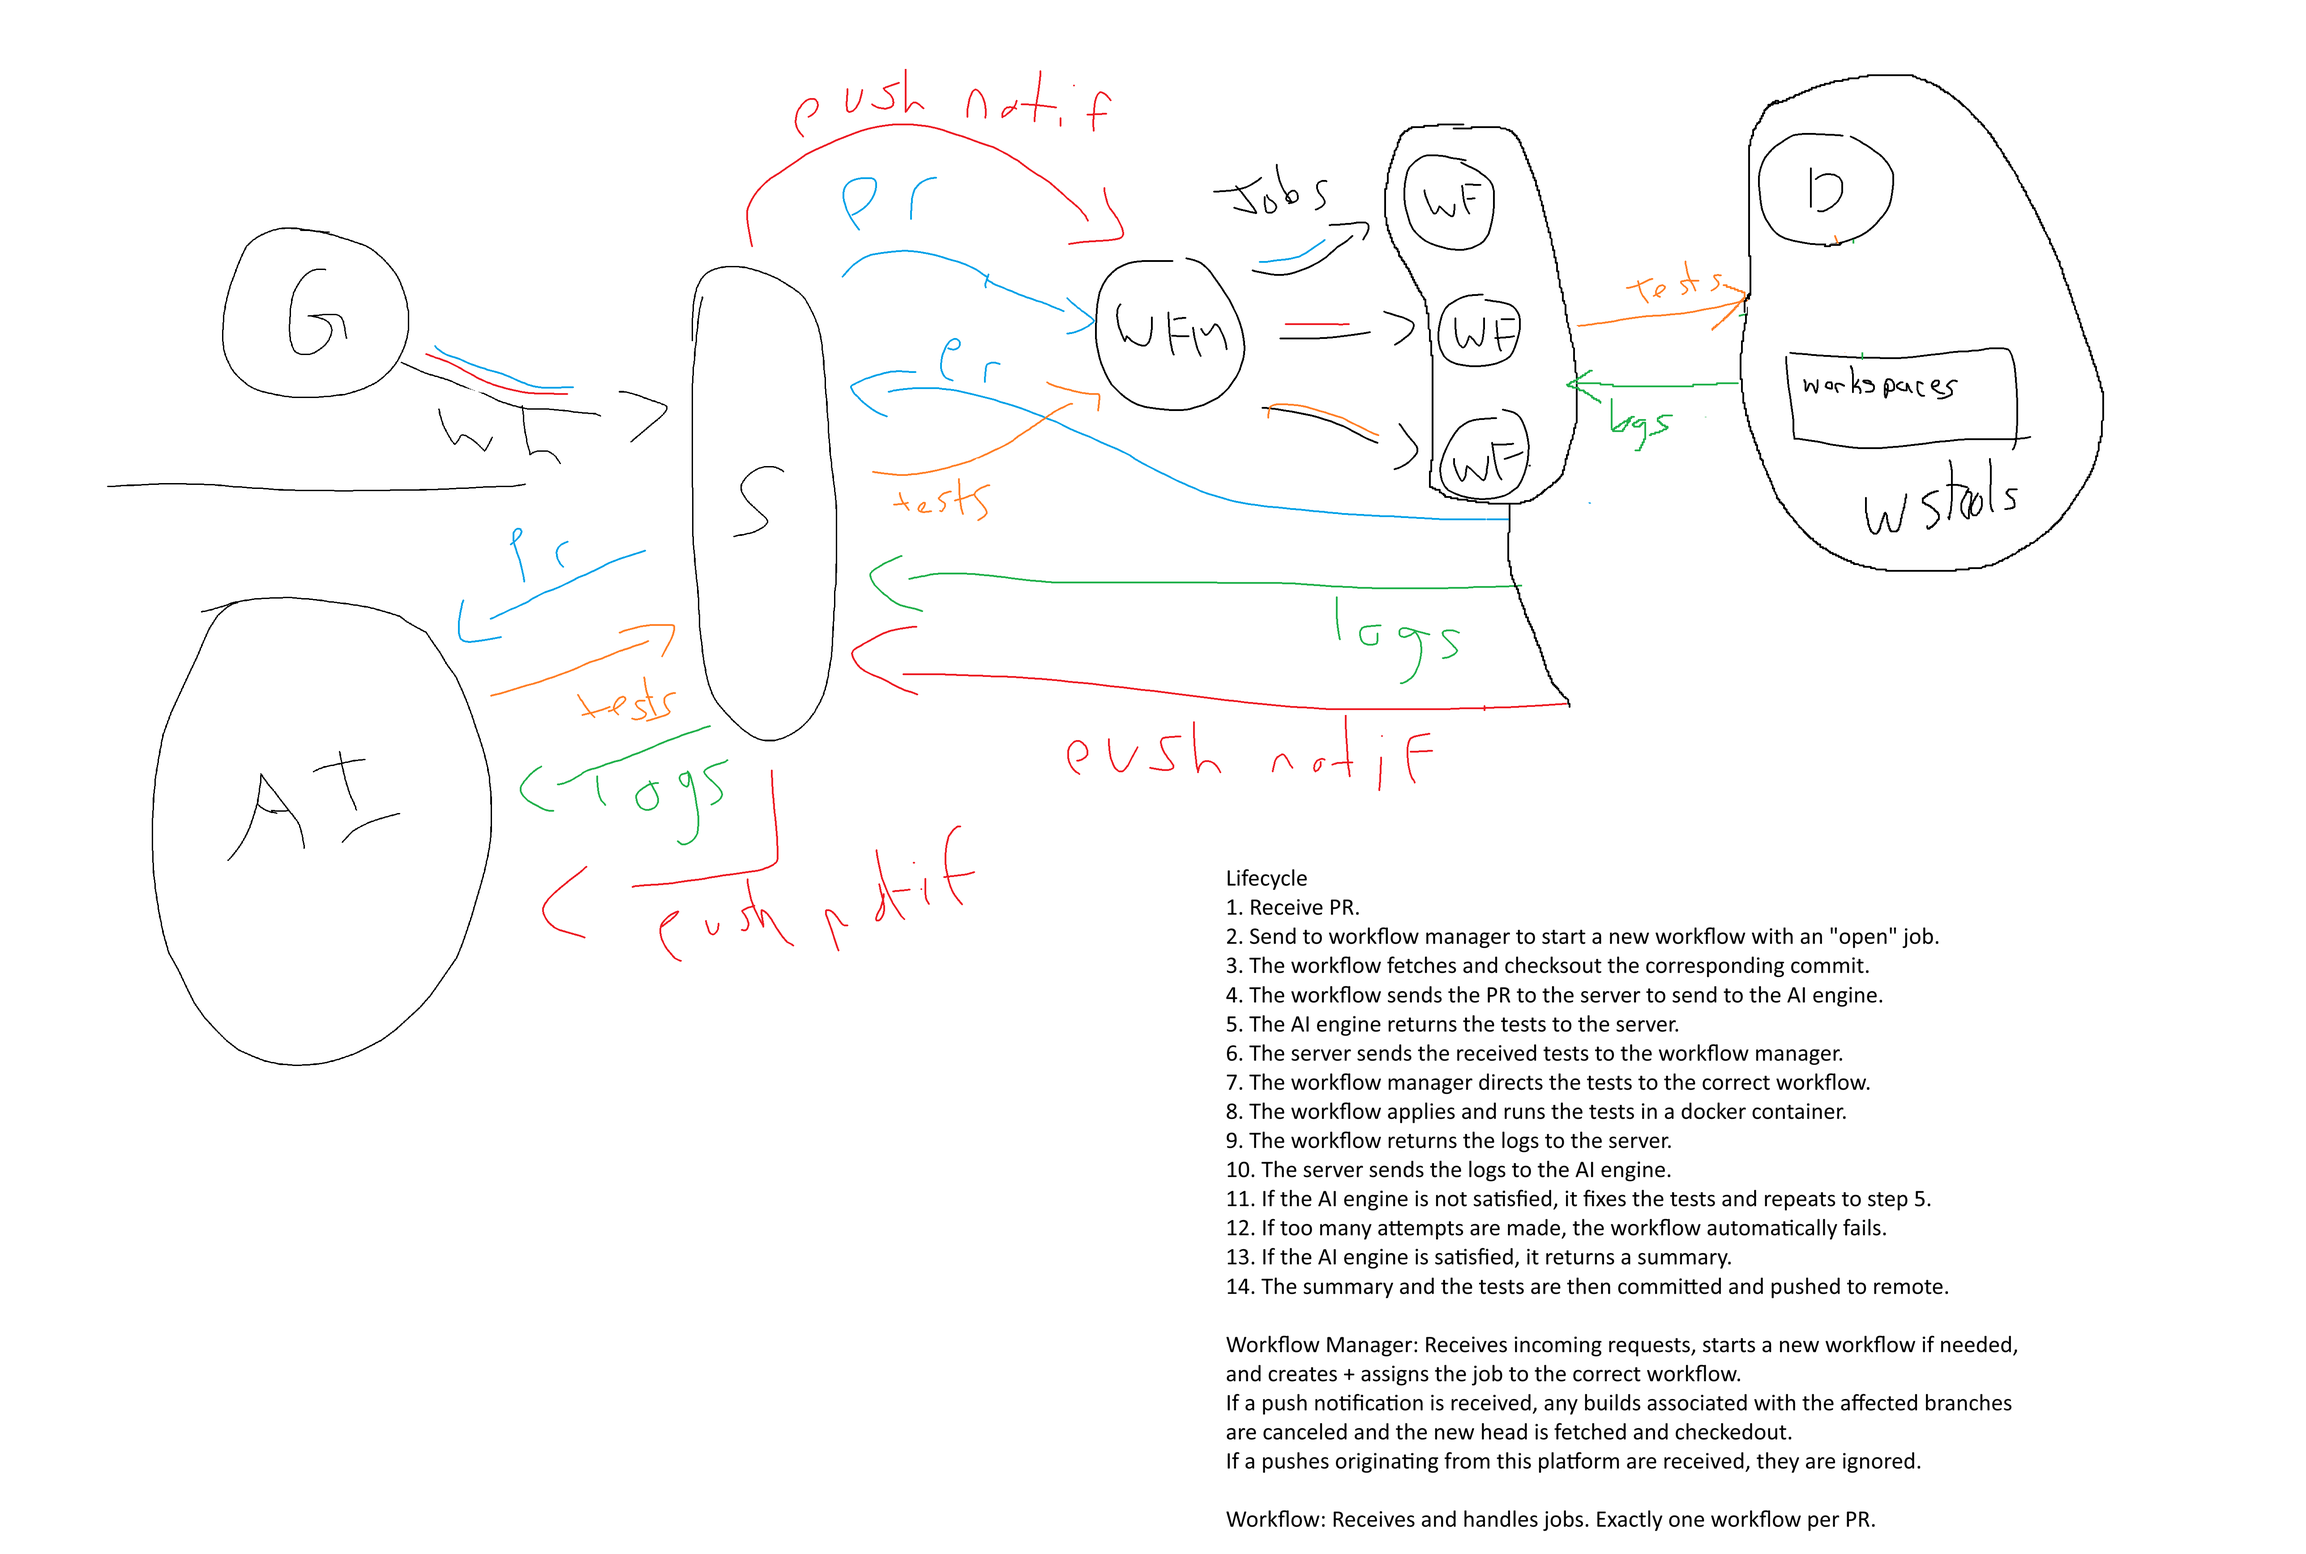
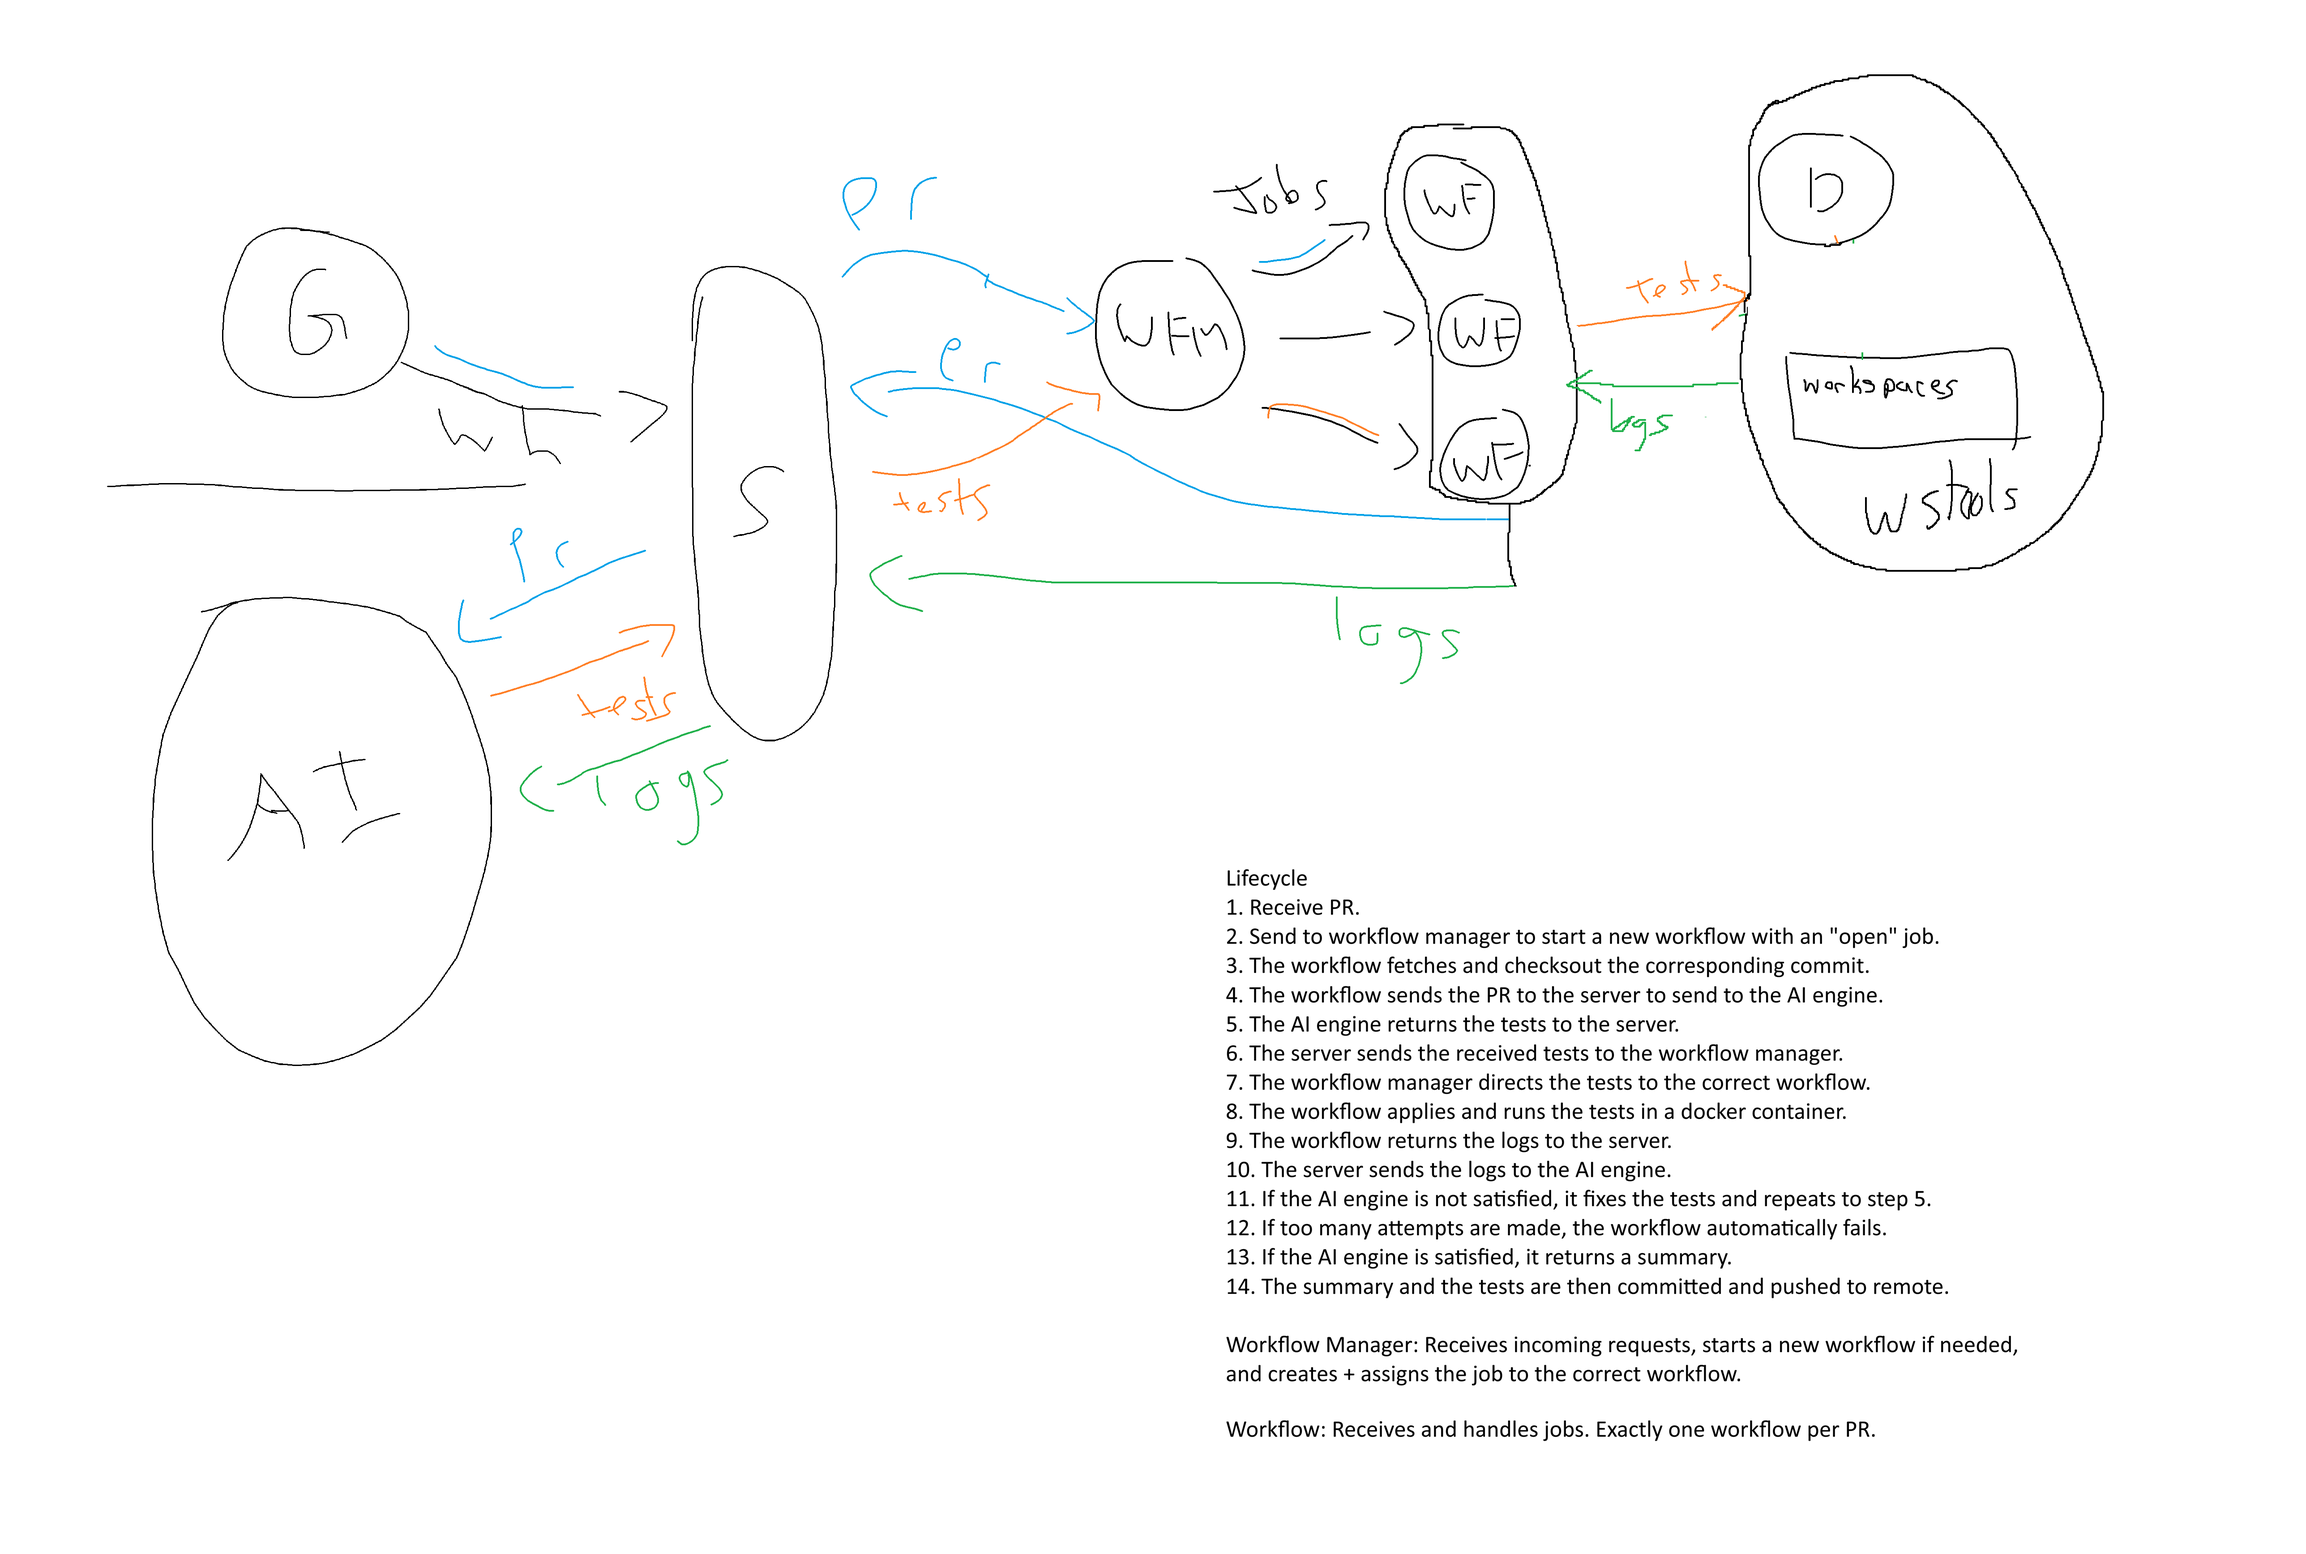
slight changes and comment changes

Changed region(s): [[0.5281, 0.9023, 0.8076, 0.9957]]

diff --git a/orchestrator/internal/dockertools/docker.go b/orchestrator/internal/dockertools/docker.go
@@ -2,6 +2,8 @@ package dockertools
 
 import (
 	"context"
+	"encoding/json"
+	"errors"
 	"fmt"
 	"io"
 	"log/slog"
@@ -27,6 +29,8 @@ type ContainerManager interface {
 type TarBuilder interface {
 	TarWorkspace(pw *io.PipeWriter, path string) error
 }
+
+var ImageBuildErr error = errors.New("Image build failed")
 
 // Cleans up old images
 func ClearOldImages(ctx context.Context, im ImageManager) error {
@@ -72,11 +76,30 @@ func BuildImage(ctx context.Context, im ImageManager, wsName, sha, srcPath strin
 	}
 	defer imageResult.Body.Close()
 
-	// TODO: imageResult.Body needs to be drained when complete
-	// imageResults is discarded for now
-	_, err = io.Copy(io.Discard, imageResult.Body)
+	type temp struct {
+		ErrorDetail struct {
+			Code    int    `json:"code,omitempty"`
+			Message string `json:"message,omitempty"`
+		} `json:"errorDetail,omitempty"`
+	}
+
+	var t temp
+	buf, err := io.ReadAll(imageResult.Body)
 	if err != nil {
-		return "", fmt.Errorf("Failed to print body: %w", err)
+		return "", fmt.Errorf("Failed to read image build result: %w", err)
+	}
+	err = json.Unmarshal(buf, &t)
+	if err != nil {
+		return "", fmt.Errorf("Failed to unmarshal image build result: %w", err)
+	}
+
+	if t.ErrorDetail.Code != 0 || t.ErrorDetail.Message != "" {
+		return "", fmt.Errorf(
+			"Failed to build image\n"+
+				"Code: %v\n"+
+				"Message: %s\n"+
+				"Error: %w",
+			t.ErrorDetail.Code, t.ErrorDetail.Message, ImageBuildErr)
 	}
 
 	return tag, nil
@@ -87,8 +110,8 @@ func RunContainer(ctx context.Context, cm ContainerManager, tag string) (io.Read
 
 	cont, err := cm.ContainerCreate(ctx, client.ContainerCreateOptions{
 		HostConfig: &container.HostConfig{},
-		Name:  tag,
-		Image: tag,
+		Name:       tag,
+		Image:      tag,
 	})
 	if err != nil {
 		return nil, fmt.Errorf("Failed to create container %s: %w", tag, err)

diff --git a/orchestrator/internal/wstools/workspace_manager.go b/orchestrator/internal/wstools/workspace_manager.go
@@ -66,7 +66,7 @@ func ClearWorkspaces() error {
 	}
 
 	// Recreate the empty directory with original permissions
-	if err := os.MkdirAll(config.WsDir, mode); err != nil {
+	if err := os.MkdirAll(config.GetPath(config.WsDir), mode); err != nil {
 		return fmt.Errorf("Failed to recreate dir: %w", err)
 	}
 
@@ -87,7 +87,7 @@ func InsertTests(path string, data []byte, all bool, testNames []string) error {
 			return fmt.Errorf("Failed to write tests: %w", err)
 		}
 	} else {
-		// TODO: how do i select specific tests and what if theyre multiple files???
+		// TODO: how do i select specific tests and what if theyre multiple
 	}
 	return nil
 }

diff --git a/orchestrator/internal/servertools/server.go b/orchestrator/internal/servertools/server.go
@@ -40,18 +40,18 @@ func seconds(n uint) time.Duration {
 }
 
 func getSender(data []byte) (string, error) {
-	type senderOnly struct {
+	type temp struct {
 		Sender struct {
 			Login string `json:"login"`
 		} `json:"sender"`
 	}
 
-	var temp senderOnly
-	err := json.Unmarshal(data, &temp)
+	var t temp
+	err := json.Unmarshal(data, &t)
 	if err != nil {
 		return "", fmt.Errorf("Failed to unmarshal data: %w", err)
 	}
-	return temp.Sender.Login, nil
+	return t.Sender.Login, nil
 }
 
 // Github webhook handler

diff --git a/orchestrator/internal/config/config.go b/orchestrator/internal/config/config.go
@@ -10,8 +10,8 @@ import (
 
 // TODO: figure out which should be in the .env
 var RootDir string // The root of this project.
-var RepoDir string // The directory that contains the repository root.
-var WsDir string   // The directory that contains all workspaces.
+var RepoDir string // The relative directory that contains the repository root.
+var WsDir string   // The relative directory that contains all workspaces.
 var RepositoryUrl string
 var GithubSecret string
 var GithubBotLogin string

diff --git a/orchestrator/cmd/main.go b/orchestrator/cmd/main.go
@@ -44,7 +44,6 @@ func main() {
 	go wfm.RunWorkflowPipeline(mainCtx, cli, taskChannel)
 
 	go func() {
-		// TODO: add patch channel
 		err = servertools.StartServer(mainCtx, taskChannel)
 		if err != nil {
 			slog.Error("Server failure", "error", err)
